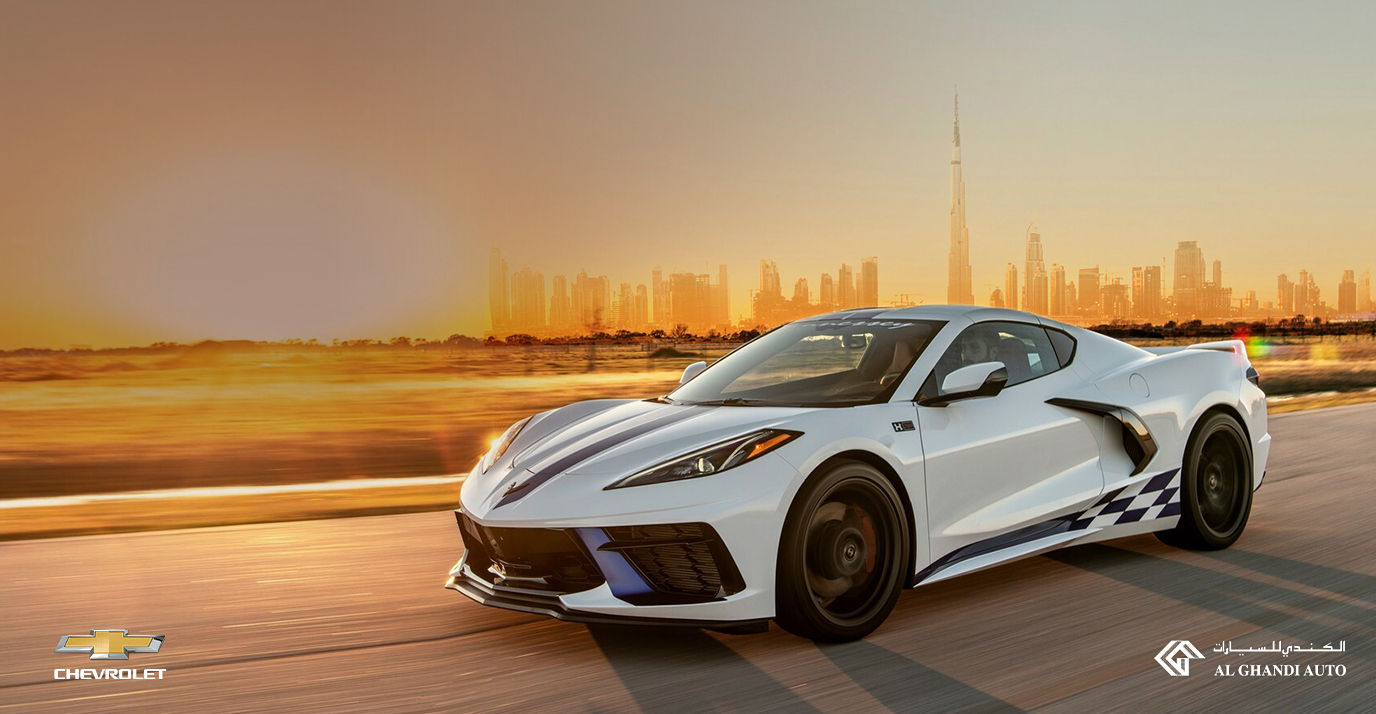
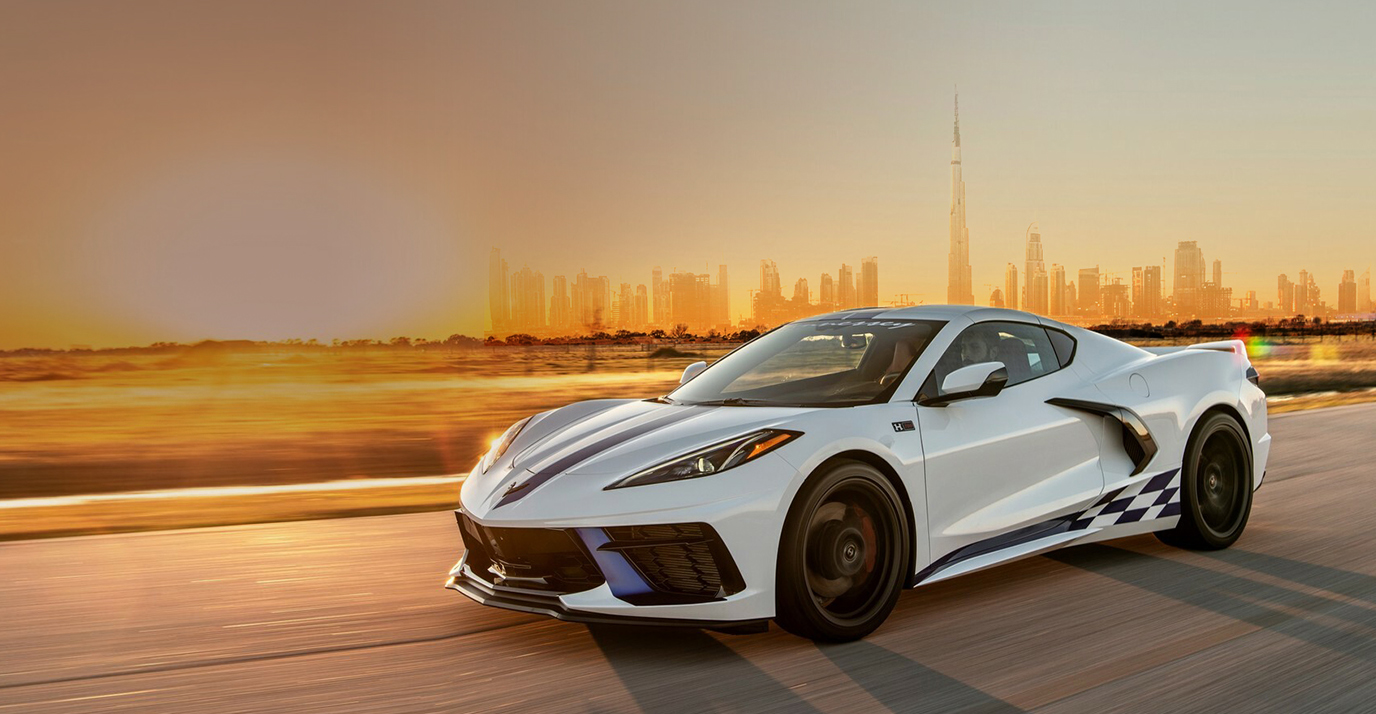
-

Changed region(s): [[0.8438, 0.8936, 0.9688, 0.9552], [0.0312, 0.8627, 0.125, 0.9552]]

diff --git a/src/pages/index.js b/src/pages/index.js
@@ -986,21 +986,18 @@ export default function index({
             <img
               loading="lazy"
               src="/Al-Ghandi-Auto-Chevrolet.jpg"
-              className="md:tw-block tw-hidden tw-object-cover tw-absolute tw-inset-0 tw-w-full md:tw-h-[457px] tw-h-[536px] tw-rounded-2xl "
+              className="md:tw-block tw-hidden tw-object-cover tw-absolute tw-inset-0 tw-w-full md:tw-h-[457px] tw-h-[536px] tw-rounded-2xl"
             />
+
             <img
               loading="lazy"
               src="/Al-Ghandi-Auto-Chevrolet-Mob.jpg"
-              className="md:tw-hidden tw-block tw-object-cover tw-absolute tw-inset-0 tw-w-full md:tw-h-[457px] tw-h-[536px] tw-rounded-2xl "
+              className="md:tw-hidden tw-block tw-object-cover tw-absolute tw-inset-0 tw-w-full md:tw-h-[457px] tw-h-[536px] tw-rounded-2xl"
             />
 
-            {/* <div className="tw-absolute tw-inset-0 tw-bg-black tw-opacity-30 md:tw-h-[457px] tw-h-[536px] tw-rounded-2xl "></div>{" "} */}
             {/* Overlay */}
-            <div className="tw-relative tw-flex tw-flex-col md:tw-px-8 tw-px-3 md:tw-pt-8 tw-pt-3 md:tw-pb-8 tw-w-full md:tw-h-full tw-h-[536px]">
-              {/* <div className="tw-text-center tw-text-sm tw-uppercase tw-tracking-wider">
-      Carpricces - a car research platform
-    </div> */}
-              <h1 className="text-white md:tw-leading-10 tw-leading-6  tw-font-bold banner-header">
+            <div className="tw-relative tw-flex tw-flex-col md:tw-px-8 tw-px-3 md:tw-pt-8 tw-pt-3 md:tw-pb-0 tw-w-full md:tw-h-[457px] tw-h-[536px]">
+              <h1 className="text-white md:tw-leading-10 tw-leading-6 tw-font-bold banner-header">
                 World’s First Truly Interactive{" "}
                 <br className="md:tw-block tw-hidden" />
                 New Car Finder Platform
@@ -1008,17 +1005,31 @@ export default function index({
               <p className="md:tw-mt-2 tw-mt-2 md:tw-w-[90%]">
                 Navigate the world of new car buying research with a fresh
                 perspective and our interactive car finder. Explore all the
-                latest 2024/25 new car models in the UAE. We have listed over 74
-                car brands, 603 unique car models and 1,776 individual vehicle
-                trims for you to choose from.
+                latest 2024/25 new car models in the UAE. We have listed over
+                <span className="tw-font-bold">
+                  {" "}
+                  74 car brands, 603 unique car models and 1,776 individual
+                  vehicle trims
+                </span>{" "}
+                for you to choose from.
               </p>
-              {/* <button className="tw-self-start tw-px-4 tw-py-3 tw-mt-5 tw-text-base tw-font-medium tw-text-center tw-text-white tw-border tw-border-white tw-rounded-full tw-hover:tw-bg-white tw-hover:tw-text-black">
-      Explore Now
-    </button> */}
+              <img
+                loading="lazy"
+                src="/Logo-Al-Ghandi-Auto.png"
+                className="tw-absolute tw-object-contain tw-bottom-0 tw-left-6 tw-w-[120px] tw-h-[55px] tw-mb-4 tw-ml-4"
+              />
+              <img
+                loading="lazy"
+                src="/Chevrolet-Logo.png"
+                className="tw-absolute tw-bottom-0 tw-object-contain tw-right-6 tw-w-[110px] tw-h-[50px] tw-mb-4 tw-mr-4"
+              />
             </div>
+
             <div className="md:tw-block tw-hidden">
               <Ad728x90 dataAdSlot="4367254600" />
             </div>
+
+            {/* Logos at the bottom left and right */}
           </div>
         </div>
 
